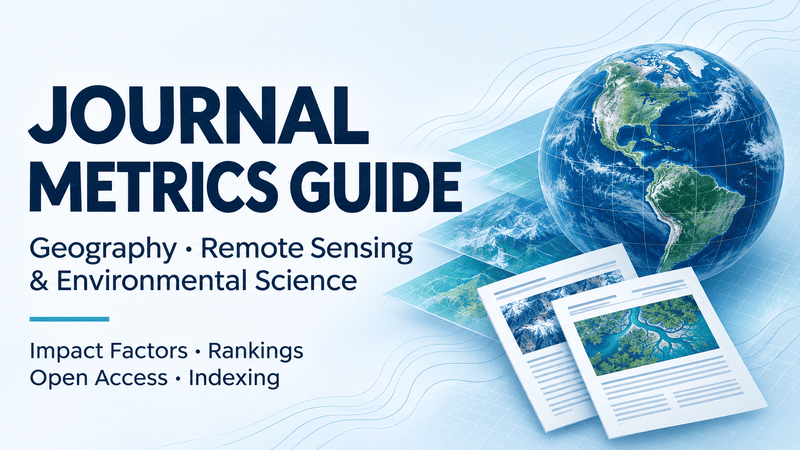
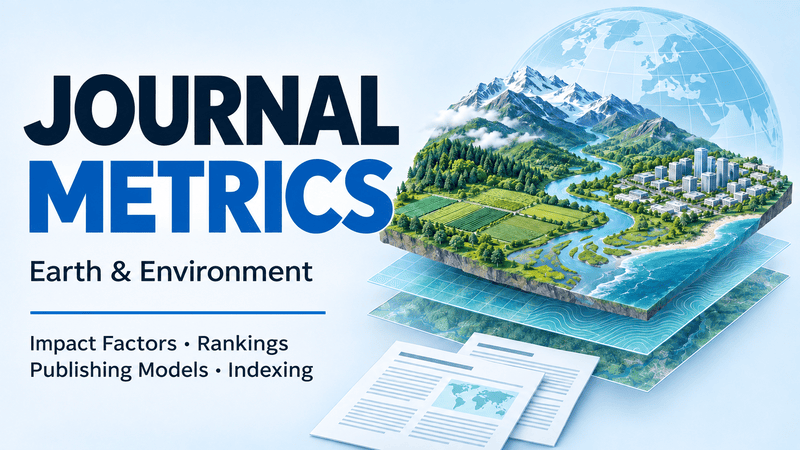
update

diff --git a/publications/index.html b/publications/index.html
@@ -12,7 +12,7 @@
     (() => { try { const theme = localStorage.getItem("theme"); if (theme) document.documentElement.dataset.theme = theme; } catch { } })();
   </script>
   <link rel="stylesheet" href="https://cdnjs.cloudflare.com/ajax/libs/font-awesome/6.5.2/css/all.min.css" />
-  <link rel="stylesheet" href="../css/styles.css?v=publication-links-20261028" />
+  <link rel="stylesheet" href="../css/styles.css?v=publication-metrics-20261126" />
   <script defer src="../js/main.js"></script>
 </head>
 
@@ -55,28 +55,44 @@
             <li id="spatial-outliers-heterogeneity"><strong>Ren, K.</strong>*, Song, Y.*, Yang,
               X., Wang, X., Chen, M., &amp; Yu, Q., 2026. <span class="publication-title">Spatial
                 outliers as a pattern determinant for explaining heterogeneity</span>. <em>International Journal of
-                Geographical Information Science</em>, pp. 1–23. <span class="publication-note">Top Journal in Zone 1,
-                IF
-                5.9</span> <a class="publication-details-link" href="../details/papers/2026-ijgis-kai-soh/"
+                Geographical Information Science</em>, pp. 1–23.
+              <a class="publication-details-link" href="../details/papers/2026-ijgis-kai-soh/"
                 aria-label="Details: Spatial outliers as a pattern determinant for explaining heterogeneity">Details</a>
               <a class="publication-doi" href="https://doi.org/10.1080/13658816.2026.2682957"
                 target="_blank" rel="noreferrer">DOI</a>
+              <div class="publication-metrics" role="group" aria-label="Journal metrics">
+                <span class="metric-jcr" title="Best subject quartile by 2025 Journal Impact Factor">JCR Q1</span>
+                <span class="metric-if" title="2025 Journal Impact Factor">IF 5.9</span>
+                <span class="metric-index" title="Science Citation Index Expanded">SCIE</span>
+                <span class="metric-index" title="Social Sciences Citation Index">SSCI</span>
+                <span class="metric-xinrui" lang="zh-CN" title="2026 年新锐期刊分区">新锐 1 区 <b>Top</b></span>
+                <span class="metric-cas" lang="zh-CN" title="2025 年中科院期刊分区（大类）">中科院 1 区 <b>Top</b></span>
+                <span class="metric-cast" lang="zh-CN" title="中国科协高质量科技期刊分级">科协 T1</span>
+              </div>
             </li>
             <li id="singularity-regression-kriging"><strong>Ren, K.</strong>, Song, Y.*, Chen, M., &amp; Yu,
               Q., 2026.
               <span class="publication-title">A singularity regression kriging
                 for spatial prediction</span>.
-              <em>GIScience &amp; Remote Sensing</em>, 63(1), 2690341. <span class="publication-note">Top Journal in
-                Zone 1, IF 6.8</span> <a class="publication-details-link" href="../details/papers/2026-grs-kai-srk/"
+              <em>GIScience &amp; Remote Sensing</em>, 63(1), 2690341.
+              <a class="publication-details-link" href="../details/papers/2026-grs-kai-srk/"
                 aria-label="Details: A singularity regression kriging for spatial prediction">Details</a>
               <a class="publication-doi" href="https://doi.org/10.1080/15481603.2026.2690341"
                 target="_blank" rel="noreferrer">DOI</a>
+              <div class="publication-metrics" role="group" aria-label="Journal metrics">
+                <span class="metric-jcr" title="Best subject quartile by 2025 Journal Impact Factor">JCR Q1</span>
+                <span class="metric-if" title="2025 Journal Impact Factor">IF 6.8</span>
+                <span class="metric-index" title="Science Citation Index Expanded">SCIE</span>
+                <span class="metric-xinrui" lang="zh-CN" title="2026 年新锐期刊分区">新锐 1 区 <b>Top</b></span>
+                <span class="metric-cas" lang="zh-CN" title="2025 年中科院期刊分区（大类）">中科院 1 区 <b>Top</b></span>
+                <span class="metric-cast" lang="zh-CN" title="中国科协高质量科技期刊分级">科协 T1</span>
+              </div>
             </li>
             <li id="second-dimension-outliers"><strong>Ren, K.</strong>, Song, Y.*, Yu, Q.*, 2026.
               <span class="publication-title">Second-dimension outliers
                 for spatial prediction</span>. <em>International Journal of Geographical Information Science</em>, 40(6),
               1915–1942.
-              <span class="publication-note">Top Journal in Zone 1, IF 5.9</span> <a class="publication-details-link" href="../details/papers/2026-ijgis-kai-sdo/"
+              <a class="publication-details-link" href="../details/papers/2026-ijgis-kai-sdo/"
                 aria-label="Details: Second-dimension outliers for spatial prediction">Details</a>
               <a class="publication-doi"
                 href="https://doi.org/10.1080/13658816.2025.2580414" target="_blank" rel="noreferrer">DOI</a>
@@ -84,15 +100,32 @@
                 aria-label="Tutorial for the SDO paper">
                 <i class="fa-solid fa-book-open-reader" aria-hidden="true"></i> Tutorial
               </a>
+              <div class="publication-metrics" role="group" aria-label="Journal metrics">
+                <span class="metric-jcr" title="Best subject quartile by 2025 Journal Impact Factor">JCR Q1</span>
+                <span class="metric-if" title="2025 Journal Impact Factor">IF 5.9</span>
+                <span class="metric-index" title="Science Citation Index Expanded">SCIE</span>
+                <span class="metric-index" title="Social Sciences Citation Index">SSCI</span>
+                <span class="metric-xinrui" lang="zh-CN" title="2026 年新锐期刊分区">新锐 1 区 <b>Top</b></span>
+                <span class="metric-cas" lang="zh-CN" title="2025 年中科院期刊分区（大类）">中科院 1 区 <b>Top</b></span>
+                <span class="metric-cast" lang="zh-CN" title="中国科协高质量科技期刊分级">科协 T1</span>
+              </div>
             </li>
             <li id="wheat-production"><strong>Ren, K.</strong>, Song, Y.*, Li, L., Mancini, F., Xiao, Z.,
               Zhang, X., Qu, R., Yu, Q.*, 2025. <span class="publication-title">Identifying climate and environmental
                 determinants of spatial disparities in wheat production using a geospatial machine learning model</span>.
-              <em>GIScience &amp; Remote Sensing</em>, 62(1): 2533487. <span class="publication-note">Top Journal in
-                Zone 1, IF 6.8</span> <a class="publication-details-link" href="../details/papers/2025-grs-kai-gozh-wheat/"
+              <em>GIScience &amp; Remote Sensing</em>, 62(1): 2533487.
+              <a class="publication-details-link" href="../details/papers/2025-grs-kai-gozh-wheat/"
                 aria-label="Details: Identifying climate and environmental determinants of spatial disparities in wheat production using a geospatial machine learning model">Details</a>
               <a class="publication-doi" href="https://doi.org/10.1080/15481603.2025.2533487"
                 target="_blank" rel="noreferrer">DOI</a>
+              <div class="publication-metrics" role="group" aria-label="Journal metrics">
+                <span class="metric-jcr" title="Best subject quartile by 2025 Journal Impact Factor">JCR Q1</span>
+                <span class="metric-if" title="2025 Journal Impact Factor">IF 6.8</span>
+                <span class="metric-index" title="Science Citation Index Expanded">SCIE</span>
+                <span class="metric-xinrui" lang="zh-CN" title="2026 年新锐期刊分区">新锐 1 区 <b>Top</b></span>
+                <span class="metric-cas" lang="zh-CN" title="2025 年中科院期刊分区（大类）">中科院 1 区 <b>Top</b></span>
+                <span class="metric-cast" lang="zh-CN" title="中国科协高质量科技期刊分级">科协 T1</span>
+              </div>
             </li>
             <li id="urban-greenspace-health">Xiao, Z., Song, Y., <strong>Ren, K.</strong>, Zhang, Z., &amp; Zheng, X.,
               2026. <span class="publication-title">Evaluating urban greenspace characteristics and their associations

diff --git a/css/styles.css b/css/styles.css
@@ -1316,7 +1316,62 @@ h3 {
   font-size: 0.72em;
 }
 
-.publication-note,
+.publication-metrics {
+  display: flex;
+  flex-wrap: wrap;
+  align-items: center;
+  gap: 0.22rem 0.28rem;
+  margin-top: 0.4rem;
+  color: #fff;
+  font-size: 0.625rem;
+  font-weight: 700;
+  font-variant-numeric: tabular-nums;
+  line-height: 1.45;
+}
+
+.publication-metrics > span {
+  display: inline-flex;
+  align-items: center;
+  gap: 0.35em;
+  padding: 0.04rem 0.3rem;
+  border: 1px solid transparent;
+  border-radius: 4px;
+  white-space: nowrap;
+}
+
+.publication-metrics .metric-jcr {
+  background: #754891;
+}
+
+.publication-metrics .metric-if {
+  background: #1d4ed8;
+}
+
+.publication-metrics .metric-index {
+  border-color: #a2c8b5;
+  background: #dfefe6;
+  color: #24543f;
+}
+
+.publication-metrics .metric-xinrui {
+  background: #0e7490;
+}
+
+.publication-metrics .metric-cas {
+  background: #a8354b;
+}
+
+.publication-metrics .metric-cast {
+  background: #c2410c;
+}
+
+.publication-metrics b {
+  border-inline-start: 1px solid rgb(255 255 255 / 45%);
+  padding-inline-start: 0.35em;
+  font-size: 0.95em;
+  line-height: 1.1;
+}
+
 .publication-status {
   color: var(--accent-warm);
   font-weight: 800;
@@ -5324,6 +5379,16 @@ code {
 
 :root[data-theme="dark"] .site-header {
   background: rgba(17, 22, 20, 0.92);
+}
+
+:root[data-theme="dark"] .publication-metrics > span {
+  border-color: rgb(255 255 255 / 22%);
+}
+
+:root[data-theme="dark"] .publication-metrics .metric-index {
+  border-color: #8ab79e;
+  background: #b5d9c6;
+  color: #1a4130;
 }
 
 :root[data-theme="dark"] .profile-links a,
